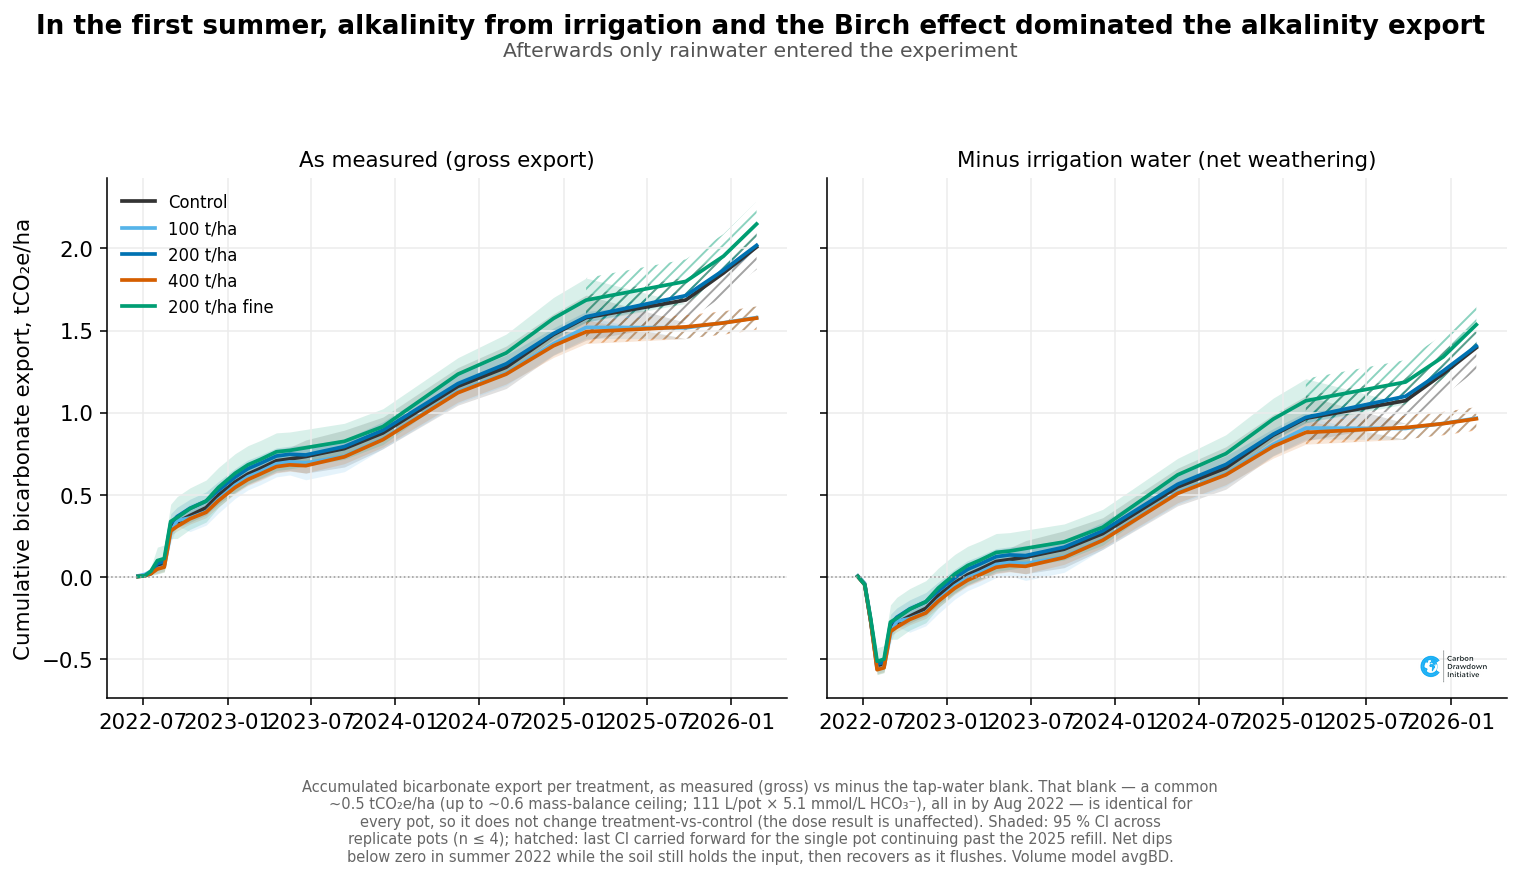
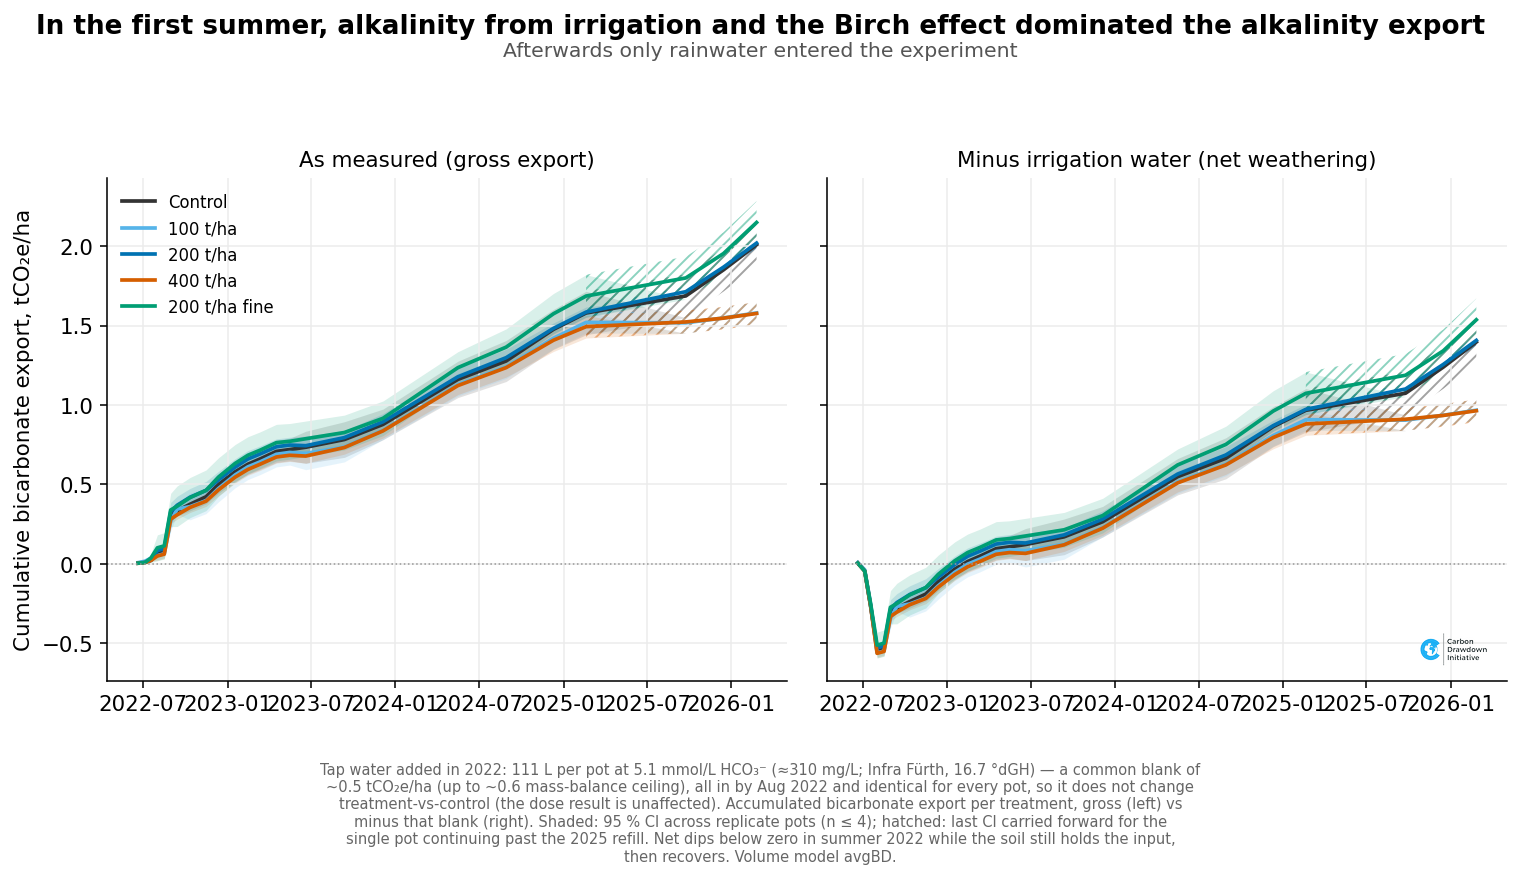
Gross-vs-net figure: state tap-water volume (111 L/pot) and TA (5.1 mmol/L) in footer

diff --git a/code/xxl_lysimeter_water_share.py b/code/xxl_lysimeter_water_share.py
@@ -142,16 +142,17 @@ def main():
     fig.text(0.5, 0.945, "Afterwards only rainwater entered the experiment",
              ha="center", fontsize=10.5, color="#555")
     import textwrap
-    foot = ("Accumulated bicarbonate export per treatment, as measured (gross) vs minus the "
-            "tap-water blank. That blank — a common ~0.5 tCO₂e/ha (up to ~0.6 mass-balance "
-            "ceiling; 111 L/pot × 5.1 mmol/L HCO₃⁻), all in by Aug 2022 — is identical for every "
-            "pot, so it does not change treatment-vs-control (the dose result is unaffected). "
-            "Shaded: 95 % CI across replicate pots (n ≤ 4); hatched: last CI carried forward for "
-            "the single pot continuing past the 2025 refill. Net dips below zero in summer 2022 "
-            "while the soil still holds the input, then recovers as it flushes. Volume model avgBD.")
+    foot = ("Tap water added in 2022: 111 L per pot at 5.1 mmol/L HCO₃⁻ (≈310 mg/L; Infra Fürth, "
+            "16.7 °dGH) — a common blank of ~0.5 tCO₂e/ha (up to ~0.6 mass-balance ceiling), all in "
+            "by Aug 2022 and identical for every pot, so it does not change treatment-vs-control "
+            "(the dose result is unaffected). Accumulated bicarbonate export per treatment, gross "
+            "(left) vs minus that blank (right). Shaded: 95 % CI across replicate pots (n ≤ 4); "
+            "hatched: last CI carried forward for the single pot continuing past the 2025 refill. "
+            "Net dips below zero in summer 2022 while the soil still holds the input, then recovers. "
+            "Volume model avgBD.")
     fig.text(0.5, 0.015, "\n".join(textwrap.wrap(foot, 118)), ha="center", va="bottom",
              fontsize=7.5, color="#666")
-    fig.tight_layout(rect=(0, 0.14, 1, 0.92))
+    fig.tight_layout(rect=(0, 0.16, 1, 0.92))
     brand.add_logo(fig, ax=b1, loc="lower right", frac=0.12)
     p2 = FIG / "TA_cumulative_gross_vs_net_tapwater.png"
     fig.savefig(p2, bbox_inches="tight"); plt.close(fig)